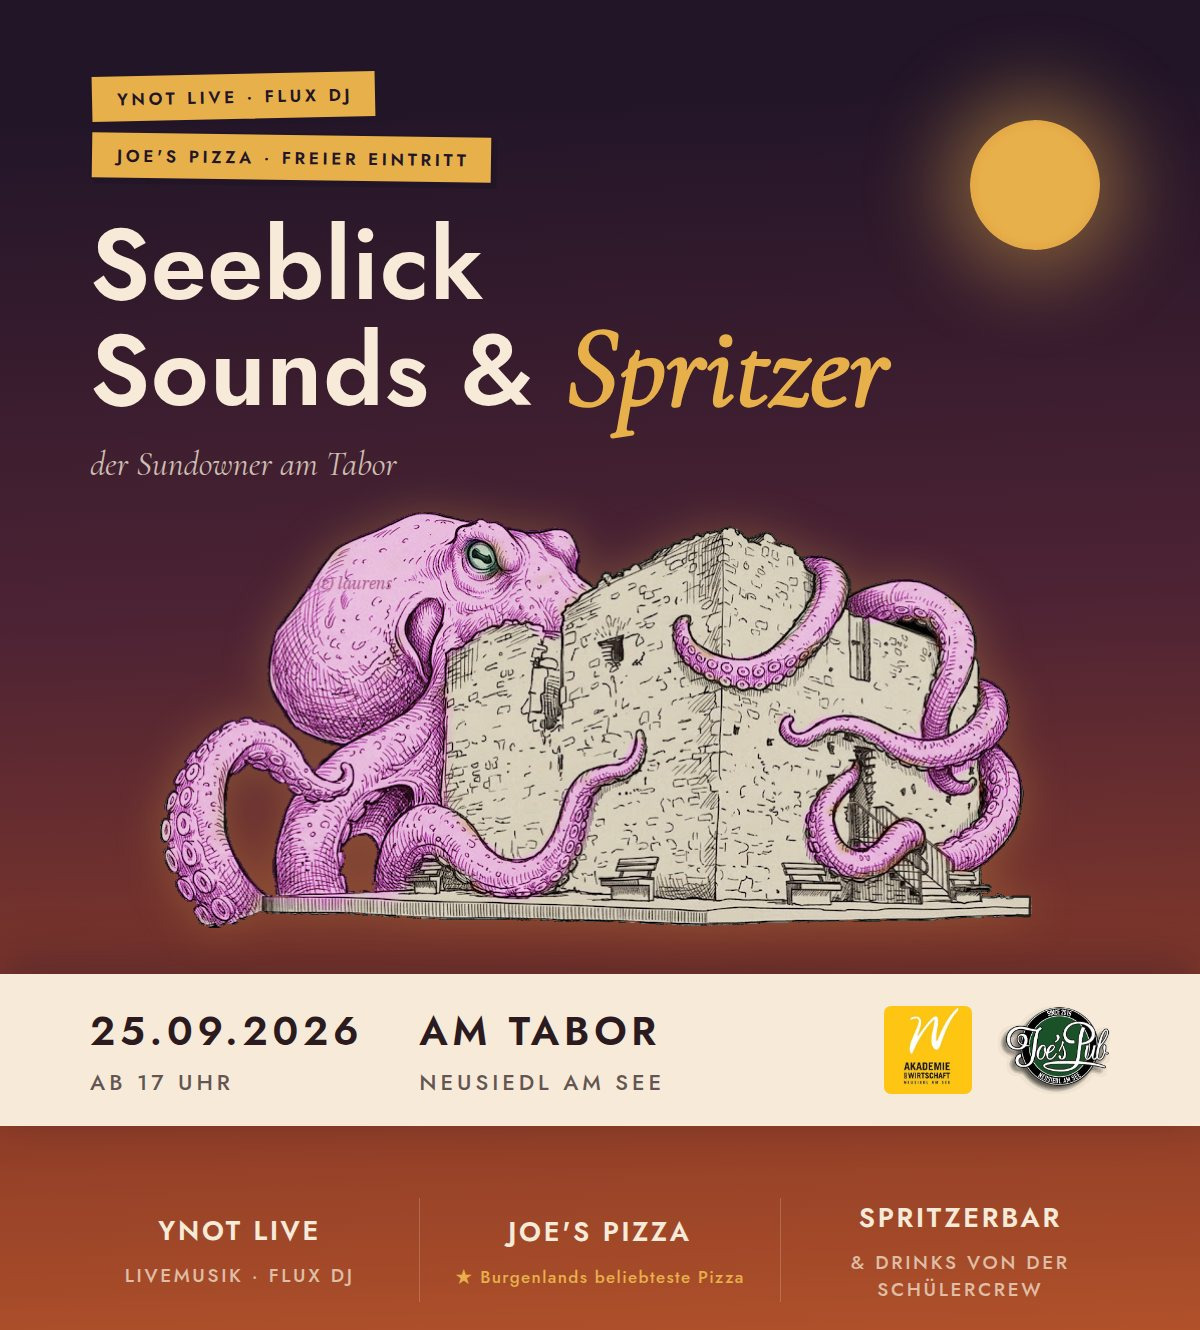
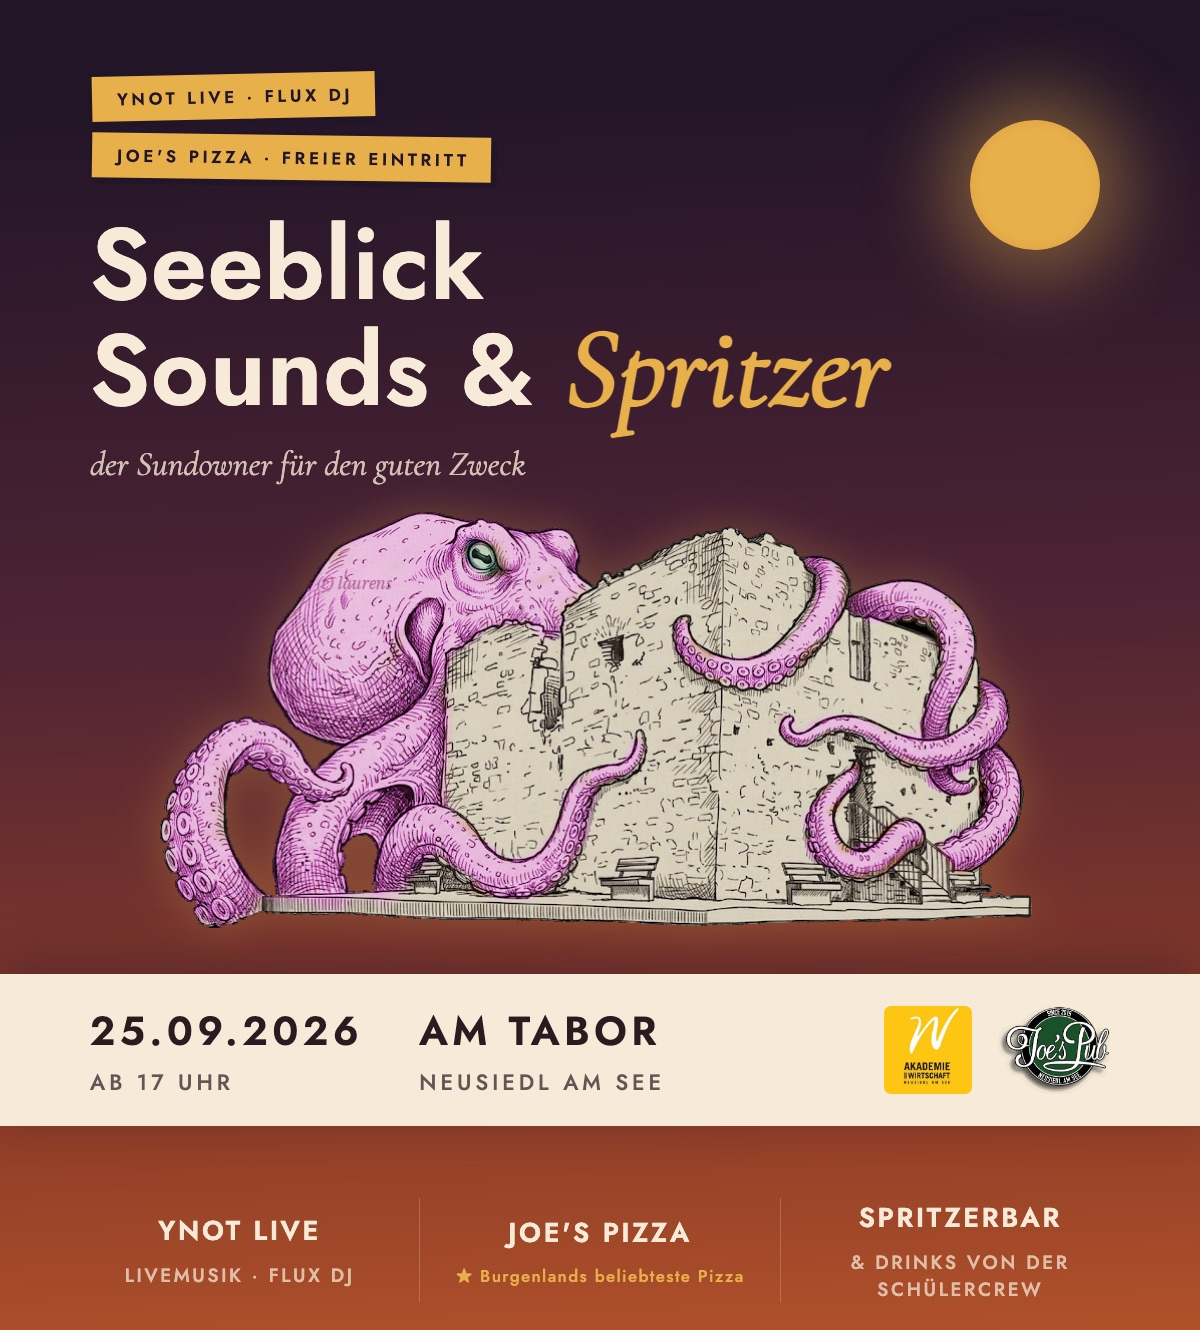
OG-Karten: „der Sundowner für den guten Zweck“ — Generatoren an FACTS.sub angebunden
- facts.mjs: sub = „der Sundowner für den guten Zweck“ (folgt dem Hero-Claim)
- gen-og / gen-og-portrait: Hardcode „der Sundowner am Tabor“ → ${FACTS.sub}
- check-media: FACTS.sub in die Hardcode-Prüfung (§5) aufgenommen —
  getaggte Zeile kann nicht mehr unbemerkt an facts.mjs vorbeigenerieren
- og-image.jpg regeneriert (→ v5), og-image-landscape.jpg (→ v3),
  ?v= in index/share/partner hochgezählt
- Komposition VLM-geprüft: Zeile vollständig, unterste Footer-Zeile nicht
  beschnitten, (c) laurens-Wasserzeichen unverändert
- status.md: OG-Divergenz-Punkt abgehakt

diff --git a/index.html b/index.html
@@ -15,7 +15,7 @@
   <meta property="og:url" content="https://soundspritzer.at/">
   <meta property="og:title" content="SunDowner — 25.09.2026 · Am Tabor, Neusiedl am See">
   <meta property="og:description" content="Seeblick · Sounds & Spritzer — Open-Air-Event mit Livemusik, Joe’s Pizza & freiem Eintritt. 25.09.2026, ab 17 Uhr am Tabor.">
-  <meta property="og:image" content="https://soundspritzer.at/assets/og-image.jpg?v=4">
+  <meta property="og:image" content="https://soundspritzer.at/assets/og-image.jpg?v=5">
   <meta property="og:image:width" content="1200">
   <meta property="og:image:height" content="1330">
   <meta property="og:image:alt" content="SunDowner am Tabor — Seeblick, Sounds & Spritzer. 25.09.2026, ab 17 Uhr, Neusiedl am See. Musik, Joe’s Pizza & Spritzerbar.">
@@ -26,7 +26,7 @@
   <meta name="twitter:title" content="SunDowner — 25.09.2026 · Am Tabor, Neusiedl am See">
   <meta name="twitter:description" content="Seeblick · Sounds & Spritzer — Open-Air-Event mit Livemusik, Joe’s Pizza & freiem Eintritt.">
   <!-- X center-croppt large cards auf ~2:1 → Landscape-Variante statt Portrait-Crop -->
-  <meta name="twitter:image" content="https://soundspritzer.at/assets/og-image-landscape.jpg?v=2">
+  <meta name="twitter:image" content="https://soundspritzer.at/assets/og-image-landscape.jpg?v=3">
 
   <!-- oEmbed-Discovery: CMS (z.B. WordPress) können die nackte URL automatisch
        zur Event-Karte umwandeln. Statisches JSON — Query-Params werden ignoriert,
@@ -73,7 +73,7 @@
         "addressCountry": "AT"
       }
     },
-    "image": ["https://soundspritzer.at/assets/og-image.jpg?v=4"],
+    "image": ["https://soundspritzer.at/assets/og-image.jpg?v=5"],
     "description": "Open-Air-Event mit Livemusik & DJ, Joe's Pizza und Spritzerbar. Freier Eintritt über Neusiedl am See.",
     "organizer": [
       {
@@ -232,7 +232,7 @@
           <a class="share-menu__item" href="https://www.facebook.com/sharer/sharer.php?u=https%3A%2F%2Fsoundspritzer.at%2F" target="_blank" rel="noopener">Facebook</a>
           <a class="share-menu__item" href="https://twitter.com/intent/tweet?text=SunDowner%20%E2%80%94%20Seeblick%2C%20Sounds%20%26%20Spritzer%20%C2%B7%2025.09.2026%2C%2017%E2%80%9322%20Uhr%20%C2%B7%20Am%20Tabor%2C%20Neusiedl%20am%20See&url=https%3A%2F%2Fsoundspritzer.at%2F" target="_blank" rel="noopener">X</a>
           <a class="share-menu__item" href="mailto:?subject=SunDowner%20am%20Tabor%20%E2%80%94%2025.09.2026&body=Seeblick%2C%20Sounds%20%26%20Spritzer%20%E2%80%94%2025.09.2026%2C%2017%E2%80%9322%20Uhr%2C%20Am%20Tabor%2C%20Neusiedl%20am%20See.%20https%3A%2F%2Fsoundspritzer.at%2F">E-Mail</a>
-          <a class="share-menu__item" href="assets/og-image.jpg?v=4" download="sundowner-instagram.jpg">Bild für Instagram</a>
+          <a class="share-menu__item" href="assets/og-image.jpg?v=5" download="sundowner-instagram.jpg">Bild für Instagram</a>
           <span class="share-menu__sep" role="presentation"></span>
           <a class="share-menu__item" href="https://calendar.google.com/calendar/render?action=TEMPLATE&amp;text=SunDowner%20%E2%80%94%20Seeblick%2C%20Sounds%20%26%20Spritzer&amp;dates=20260925T150000Z%2F20260925T200000Z&amp;details=Open-Air%20am%20Tabor%3A%20YnoT%20live%2C%20DJ%20Flux%2C%20Joe%27s%20Pizza%2C%20Spritzerbar.%20Freier%20Eintritt.%20https%3A%2F%2Fsoundspritzer.at%2F&amp;location=Ruine%20Tabor%2C%20Am%20Tabor%2C%207100%20Neusiedl%20am%20See" target="_blank" rel="noopener">Termin: Google Kalender</a>
           <a class="share-menu__item" href="/assets/sundowner.ics" download="sundowner.ics">Termin: iPhone / Outlook (.ics)</a>

diff --git a/partner.html b/partner.html
@@ -15,12 +15,12 @@
   <meta property="og:url" content="https://soundspritzer.at/partner">
   <meta property="og:title" content="Unterstützen — SunDowner · 25.09.2026 · Am Tabor">
   <meta property="og:description" content="Als Unternehmen sponsern oder privat unterstützen — Kachel, Logo & Nennung am SunDowner am Tabor.">
-  <meta property="og:image" content="https://soundspritzer.at/assets/og-image.jpg?v=4">
+  <meta property="og:image" content="https://soundspritzer.at/assets/og-image.jpg?v=5">
   <meta property="og:image:type" content="image/jpeg">
   <meta property="og:locale" content="de_AT">
   <meta name="twitter:card" content="summary_large_image">
   <!-- X center-croppt large cards auf ~2:1 → Landscape-Variante statt Portrait-Crop -->
-  <meta name="twitter:image" content="https://soundspritzer.at/assets/og-image-landscape.jpg?v=2">
+  <meta name="twitter:image" content="https://soundspritzer.at/assets/og-image-landscape.jpg?v=3">
 
   <link rel="canonical" href="https://soundspritzer.at/partner">
   <link rel="icon" href="/favicon.ico" sizes="48x48">

diff --git a/share.html b/share.html
@@ -42,8 +42,8 @@
     <section class="kit-block" aria-labelledby="kit-bilder">
       <h2 class="kit-title" id="kit-bilder">2 · Bilder</h2>
       <div class="kit-thumb-row">
-        <a class="kit-thumb" href="assets/og-image.jpg?v=4" download="sundowner-share.jpg">
-          <img src="assets/og-image.jpg?v=4" alt="Event-Karte: SunDowner mit Tabor-Oktopus, Datum und Offerings" loading="lazy" width="1200" height="1330">
+        <a class="kit-thumb" href="assets/og-image.jpg?v=5" download="sundowner-share.jpg">
+          <img src="assets/og-image.jpg?v=5" alt="Event-Karte: SunDowner mit Tabor-Oktopus, Datum und Offerings" loading="lazy" width="1200" height="1330">
           <span>Event-Karte · JPG ↓</span>
         </a>
         <a class="kit-thumb" href="assets/sundowner-hero.png?v=3" download="sundowner-hero.png">

diff --git a/status.md b/status.md
@@ -123,7 +123,7 @@ og:image + Twitter-Cards gesetzt (Plakat 1200×630), Title/Description auf DE, l
 
 ## Offen / TODO
 
-- [ ] **OG-Bilder vs. Hero-Claim:** Website-Hero sagt jetzt „der Sundowner für den guten Zweck“, og-image.jpg/-landscape (aus `FACTS.sub` = „der Sundowner am Tabor“) noch Ort-Claim. Beides wahr, aber entscheiden: og regenerieren oder bewusst so lassen. Bei Änderung: `FACTS.sub` anpassen → `gen-og*` laufen lassen → `?v=` hochzählen.
+- [x] ~~OG-Bilder vs. Hero-Claim~~ erledigt 15.09.: `FACTS.sub` = „der Sundowner für den guten Zweck“, beide og-Karten regeneriert (v5/v3), Generatoren hängen jetzt an `FACTS.sub` (Hardcode wäre künftig Checker-Fail)
 
 - [ ] Spenden via Stripe Payment Link → Revolut einrichten (siehe Plan oben)
 - [ ] GH-Action `sponsors.yml` verifizieren (erster Lauf nach Push)
